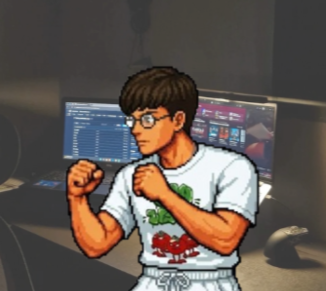
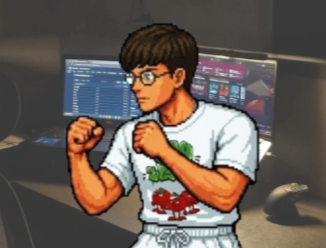
powers

diff --git a/Engine/css/screens.css b/Engine/css/screens.css
@@ -67,7 +67,7 @@
     radial-gradient(circle at 50% 38%, rgba(255, 255, 255, .22), transparent 58%),
     linear-gradient(160deg, var(--theme, #2a5a6a) 0%, #0b1d27 115%);
 }
-.char-card__img { position: absolute; left: 0; top: 0; width: 100%; height: 100%; object-fit: cover; object-position: 50% 0; }
+.char-card__img { position: absolute; left: 0; top: 0; width: 100%; height: 100%; object-fit: cover; object-position: 50% 12%; }
 .char-card__name {
   position: absolute; left: 0; right: 0; bottom: 0; height: 22px;
   display: flex; align-items: center; justify-content: center;
@@ -138,7 +138,7 @@
 .versus__card--l { left: 26px; }
 .versus__card--r { right: 26px; }
 .versus__card::before { content: ''; position: absolute; inset: 0; background: radial-gradient(circle at 50% 35%, rgba(255, 255, 255, .25), transparent 60%), linear-gradient(160deg, var(--theme), #060f20 120%); }
-.versus__card img { position: absolute; inset: 0; width: 100%; height: 100%; object-fit: cover; object-position: 50% 0; }
+.versus__card img { position: absolute; inset: 0; width: 100%; height: 100%; object-fit: cover; object-position: 50% 12%; }
 .versus__name { top: 414px; width: 270px; height: 44px; font-size: 20px; }
 .versus__name--l { left: 22px; }
 .versus__name--r { right: 22px; }

diff --git a/Engine/js/game/renderer.js b/Engine/js/game/renderer.js
@@ -188,8 +188,10 @@
       const img = p.sprite && SK.Assets.get(p.sprite);
       c.save();
       if (img) {
-        c.translate(p.x, p.y); c.scale(p.dir, 1);
-        c.drawImage(img, -p.w / 2, -p.h / 2, p.w, p.h);
+        c.translate(p.x, p.y);
+        const k = p.drawSize / Math.max(img.width, img.height);   // mantém a proporção original
+        const dw = img.width * k, dh = img.height * k;
+        c.drawImage(img, -dw / 2, -dh / 2, dw, dh);
       } else {                                                    // placeholder
         const g = c.createRadialGradient(p.x, p.y, 2, p.x, p.y, p.w * 0.8);
         g.addColorStop(0, '#fff'); g.addColorStop(0.45, p.color); g.addColorStop(1, 'rgba(253,215,70,0)');

diff --git a/Engine/js/screens/characterSelect.js b/Engine/js/screens/characterSelect.js
@@ -29,7 +29,7 @@ SK.Screens.register('characterSelect', function (params) {
     }
     return '<div class="char-card panel" data-i="' + i + '" style="--i:' + i + ';--theme:' + c.themeColor + '">' +
       '<span class="char-card__bg"></span>' +
-      '<img class="char-card__img" src="' + (c.sprites.icon || c.sprites.portrait) + '" alt="">' +
+      '<img class="char-card__img" src="' + c.sprites.portrait + '" alt="">' +
       '<span class="char-card__tags"><span class="tag tag--p1" data-tag="1" style="display:none">P1</span><span class="tag tag--p2" data-tag="2" style="display:none">P2</span></span>' +
       '<span class="char-card__name">' + SK.util.esc(c.name) + '</span></div>';
   }

diff --git a/Engine/js/content/characters/juliano.js b/Engine/js/content/characters/juliano.js
@@ -12,7 +12,7 @@ SK.Characters.register({
   facing: 'left',                 // para onde o sprite ORIGINAL olha no PNG ('right' | 'left') — detectado: todos olham p/ a ESQUERDA
   size: { spriteHeight: 200, hurtW: 64, hurtH: 172, crouchH: 112 },
   stats: { maxHp: 100, speed: 235, jumpPower: 700 },
-  moves: {},
+  moves: { projectile: { projectile: { sprite: 'assets/powers/julianoPower.png' } } },   // poder individual (tecla X / ,)
   /* ANIM:BEGIN (gerado por tools/make_basic_sprites.py — pode editar à mão) */
   animations: {
     walk: { src: 'assets/characters/juliano/walk.png', frameWidth: 350, frameHeight: 480, frames: 8, fps: 11, height: 200 },

diff --git a/Engine/js/content/characters/leandro.js b/Engine/js/content/characters/leandro.js
@@ -11,7 +11,7 @@ SK.Characters.register({
   facing: 'left',                 // para onde o sprite ORIGINAL olha no PNG ('right' | 'left') — detectado: todos olham p/ a ESQUERDA
   size: { spriteHeight: 200, hurtW: 64, hurtH: 172, crouchH: 112 },
   stats: { maxHp: 100, speed: 235, jumpPower: 700 },
-  moves: {},
+  moves: { projectile: { projectile: { sprite: 'assets/powers/leandroPower.png' } } },   // poder individual (tecla X / ,)
   /* ANIM:BEGIN (gerado por tools/make_basic_sprites.py — pode editar à mão) */
   animations: {
     walk: { src: 'assets/characters/leandro/walk.png', frameWidth: 363, frameHeight: 480, frames: 8, fps: 11, height: 200 },

diff --git a/Engine/js/content/characters/matheus.js b/Engine/js/content/characters/matheus.js
@@ -11,7 +11,7 @@ SK.Characters.register({
   facing: 'left',                 // para onde o sprite ORIGINAL olha no PNG ('right' | 'left') — detectado: todos olham p/ a ESQUERDA
   size: { spriteHeight: 200, hurtW: 64, hurtH: 172, crouchH: 112 },
   stats: { maxHp: 100, speed: 235, jumpPower: 700 },
-  moves: {},
+  moves: { projectile: { projectile: { sprite: 'assets/powers/matheusPower.png' } } },   // poder individual (tecla X / ,)
   /* ANIM:BEGIN (gerado por tools/make_basic_sprites.py — pode editar à mão) */
   animations: {
     walk: { src: 'assets/characters/matheus/walk.png', frameWidth: 356, frameHeight: 480, frames: 8, fps: 11, height: 200 },

diff --git a/Engine/js/content/characters/vicenzo.js b/Engine/js/content/characters/vicenzo.js
@@ -12,7 +12,7 @@ SK.Characters.register({
   facing: 'left',                 // para onde o sprite ORIGINAL olha no PNG ('right' | 'left') — detectado: todos olham p/ a ESQUERDA
   size: { spriteHeight: 200, hurtW: 64, hurtH: 172, crouchH: 112 },
   stats: { maxHp: 100, speed: 235, jumpPower: 700 },
-  moves: {},
+  moves: { projectile: { projectile: { sprite: 'assets/powers/vicenzoPower.png' } } },   // poder individual (tecla X / ,)
   /* ANIM:BEGIN (gerado por tools/make_basic_sprites.py — pode editar à mão) */
   animations: {
     walk: { src: 'assets/characters/vicenzo/walk.png', frameWidth: 361, frameHeight: 480, frames: 8, fps: 11, height: 200 },

diff --git a/Engine/js/content/characters/jordan.js b/Engine/js/content/characters/jordan.js
@@ -12,7 +12,7 @@ SK.Characters.register({
   facing: 'left',                 // para onde o sprite ORIGINAL olha no PNG ('right' | 'left') — detectado: todos olham p/ a ESQUERDA
   size: { spriteHeight: 200, hurtW: 64, hurtH: 172, crouchH: 112 },
   stats: { maxHp: 100, speed: 235, jumpPower: 700 },
-  moves: {},
+  moves: { projectile: { projectile: { sprite: 'assets/powers/jordanPower.png' } } },   // poder individual (tecla X / ,)
   /* ANIM:BEGIN (gerado por tools/make_basic_sprites.py — pode editar à mão) */
   animations: {
     walk: { src: 'assets/characters/jordan/walk.png', frameWidth: 361, frameHeight: 480, frames: 8, fps: 11, height: 200 },

diff --git a/Engine/js/content/characters/kaique.js b/Engine/js/content/characters/kaique.js
@@ -12,7 +12,7 @@ SK.Characters.register({
   facing: 'left',                 // para onde o sprite ORIGINAL olha no PNG ('right' | 'left') — detectado: todos olham p/ a ESQUERDA
   size: { spriteHeight: 200, hurtW: 64, hurtH: 172, crouchH: 112 },
   stats: { maxHp: 100, speed: 235, jumpPower: 700 },
-  moves: {},
+  moves: { projectile: { projectile: { sprite: 'assets/powers/kaiquePower.png' } } },   // poder individual (tecla X / ,)
   /* ANIM:BEGIN (gerado por tools/make_basic_sprites.py — pode editar à mão) */
   animations: {
     walk: { src: 'assets/characters/kaique/walk.png', frameWidth: 364, frameHeight: 480, frames: 8, fps: 11, height: 200 },

diff --git a/Engine/js/content/characters/robson.js b/Engine/js/content/characters/robson.js
@@ -12,7 +12,7 @@ SK.Characters.register({
   facing: 'left',                 // para onde o sprite ORIGINAL olha no PNG ('right' | 'left') — detectado: todos olham p/ a ESQUERDA
   size: { spriteHeight: 200, hurtW: 64, hurtH: 172, crouchH: 112 },
   stats: { maxHp: 100, speed: 235, jumpPower: 700 },
-  moves: {},
+  moves: { projectile: { projectile: { sprite: 'assets/powers/robsonPower.png' } } },   // poder individual (tecla X / ,)
   /* ANIM:BEGIN (gerado por tools/make_basic_sprites.py — pode editar à mão) */
   animations: {
     walk: { src: 'assets/characters/robson/walk.png', frameWidth: 355, frameHeight: 480, frames: 8, fps: 11, height: 200 },

diff --git a/Engine/js/content/characters/gerbi.js b/Engine/js/content/characters/gerbi.js
@@ -11,7 +11,7 @@ SK.Characters.register({
   facing: 'left',                 // para onde o sprite ORIGINAL olha no PNG ('right' | 'left') — detectado: todos olham p/ a ESQUERDA
   size: { spriteHeight: 200, hurtW: 64, hurtH: 172, crouchH: 112 },
   stats: { maxHp: 100, speed: 235, jumpPower: 700 },
-  moves: {},
+  moves: { projectile: { projectile: { sprite: 'assets/powers/gerbiPower.png' } } },   // poder individual (tecla X / ,)
   /* ANIM:BEGIN (gerado por tools/make_basic_sprites.py — pode editar à mão) */
   animations: {
     walk: { src: 'assets/characters/gerbi/walk.png', frameWidth: 363, frameHeight: 480, frames: 8, fps: 11, height: 200 },

diff --git a/Engine/js/content/characters/italo.js b/Engine/js/content/characters/italo.js
@@ -12,7 +12,7 @@ SK.Characters.register({
   facing: 'left',                 // para onde o sprite ORIGINAL olha no PNG ('right' | 'left') — detectado: todos olham p/ a ESQUERDA
   size: { spriteHeight: 200, hurtW: 64, hurtH: 172, crouchH: 112 },
   stats: { maxHp: 100, speed: 235, jumpPower: 700 },
-  moves: {},
+  moves: { projectile: { projectile: { sprite: 'assets/powers/italoPower.png' } } },   // poder individual (tecla X / ,)
   /* ANIM:BEGIN (gerado por tools/make_basic_sprites.py — pode editar à mão) */
   animations: {
     walk: { src: 'assets/characters/italo/walk.png', frameWidth: 352, frameHeight: 480, frames: 8, fps: 11, height: 200 },
